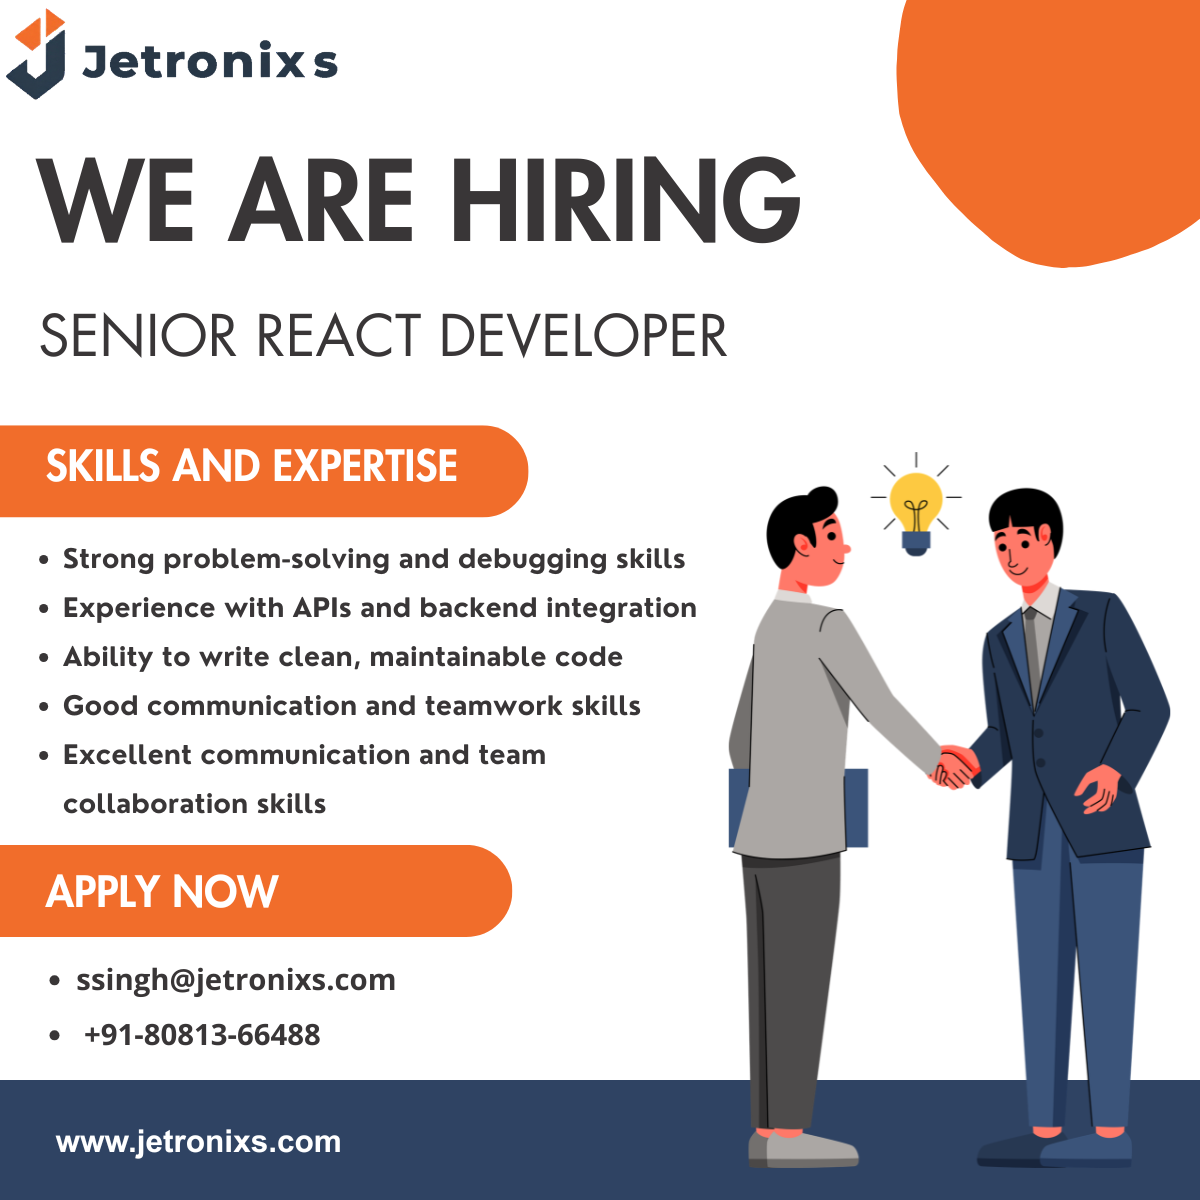
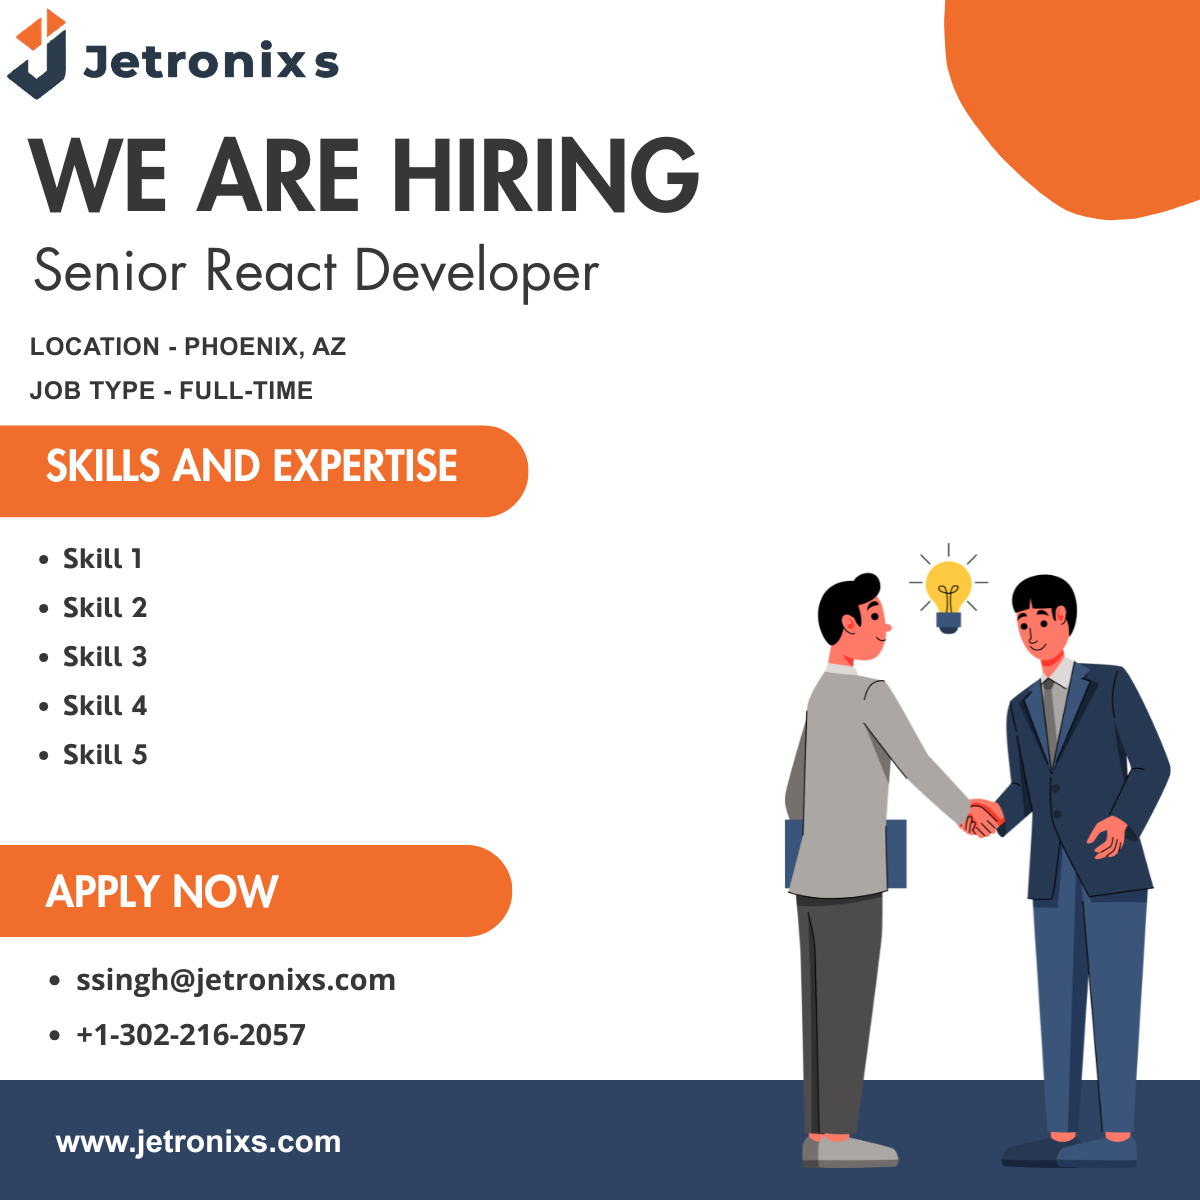
updated job poster with location, job type and added skills section

diff --git a/src/components/JobCardPreview.tsx b/src/components/JobCardPreview.tsx
@@ -11,6 +11,8 @@ import "./JobCardPreview.css";
 
 interface JobCardPreviewProps {
   title: string;
+  location?: string;
+  jobType?: string;
   responsibilities: string[];
   skills: string[];
   generatedImage?: string;
@@ -24,14 +26,14 @@ export interface JobCardPreviewHandle {
 
 const JobCardPreview = forwardRef<JobCardPreviewHandle, JobCardPreviewProps>(
   (
-    { title, responsibilities, skills, generatedImage, children }: JobCardPreviewProps,
+    { title, location, jobType, responsibilities, skills, generatedImage, children }: JobCardPreviewProps,
     ref,
   ) => {
     const printRef = useRef<HTMLDivElement>(null);
 
-    const posterResponsibilities = useMemo(
-      () => responsibilities.filter(Boolean).slice(0, 4),
-      [responsibilities],
+    const posterSkills = useMemo(
+      () => skills.filter(Boolean).slice(0, 5),
+      [skills],
     );
 
     const jobTitle = title.trim() || "Job Title Preview";
@@ -94,11 +96,21 @@ const JobCardPreview = forwardRef<JobCardPreviewHandle, JobCardPreviewProps>(
               >
                 {jobTitle}
               </h2>
+              {location && (
+                <p className="job-card-preview__meta">
+                  Location - {location}
+                </p>
+              )}
+              {jobType && (
+                <p className="job-card-preview__meta">
+                  Job Type - {jobType}
+                </p>
+              )}
             </div>
 
             <ul className="job-card-preview__list">
-              {posterResponsibilities.map((item, index) => (
-                <li key={`poster-point-${index}`} className="job-card-preview__item">
+              {posterSkills.map((item, index) => (
+                <li key={`poster-skill-${index}`} className="job-card-preview__item">
                   <span className="job-card-preview__bullet" aria-hidden="true">
                     •
                   </span>

diff --git a/src/components/JobCardPreview.css b/src/components/JobCardPreview.css
@@ -41,9 +41,9 @@
 
 .job-card-preview__titleWrap {
   position: absolute;
-  top: 24%;
+  top: 20%;
   left: 2.2%;
-  width: 80%;
+  width: 95%;
 }
 
 .job-card-preview__title {
@@ -52,7 +52,6 @@
   line-height: 1.08;
   font-weight: 500;
   letter-spacing: -0.03em;
-  text-transform: uppercase;
   overflow-wrap: anywhere;
 }
 
@@ -65,13 +64,22 @@
   line-height: 1.05;
 }
 
+.job-card-preview__meta {
+  margin: 0;
+  margin-top: 0.8em;
+  font-size: clamp(1rem, 1.5cqi, 0.85rem);
+  font-weight: 700;
+  /* letter-spacing: 0.04em; */
+  color: #3f3d42;
+  line-height: 0.6;
+}
 .job-card-preview__list {
   position: absolute;
   margin: 0;
   padding-left: 0;
-  width: 62%;
+  width: 65%;
   color: #3f3d42;
-  top: 41.5%;
+  top: 45%;
   left: 0.5%;
   list-style: none;
 }

diff --git a/src/components/JobPosterDownloadButton.tsx b/src/components/JobPosterDownloadButton.tsx
@@ -6,6 +6,8 @@ import JobCardPreview, {
 interface Props {
   job: {
     title: string;
+    location?: string;
+    jobType?: string;
     responsibilities?: string[];
     skills?: string[];
     posterImage?: string;
@@ -37,6 +39,8 @@ const JobPosterDownloadButton = ({ job }: Props) => {
         <JobCardPreview
           ref={ref}
           title={job.title}
+          location={job.location}
+          jobType={job.jobType}
           responsibilities={job.responsibilities || []}
           skills={job.skills || []}
           generatedImage={job.posterImage || ""}

diff --git a/src/jobs/JobBoard.tsx b/src/jobs/JobBoard.tsx
@@ -556,6 +556,8 @@ function JobBoard() {
           <JobCardPreview
             ref={previewRef}
             title={title}
+            location={location}
+            jobType={jobType}
             responsibilities={responsibilities}
             skills={skills}
             generatedImage={posterImage}
